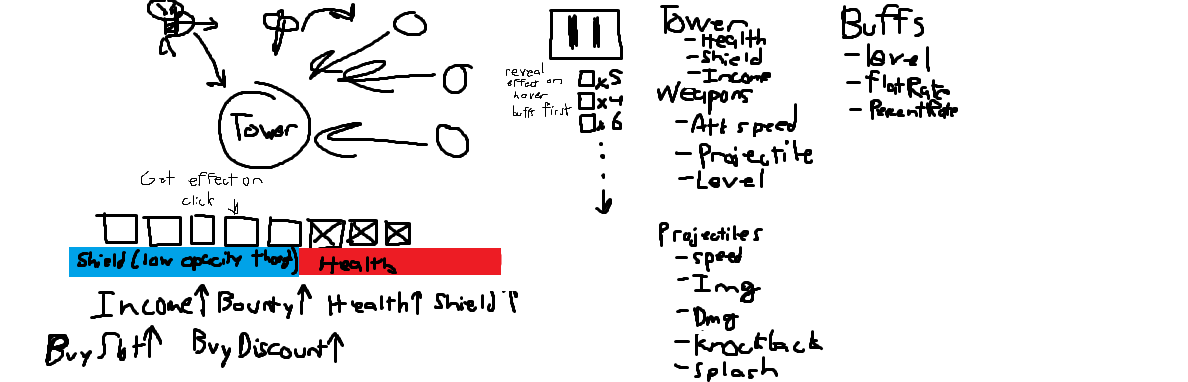
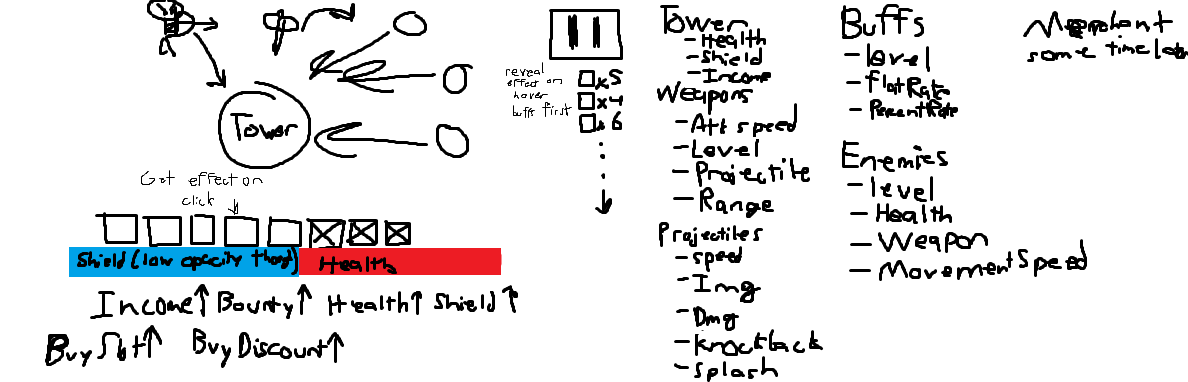
created simplified scriptable objects

Changed region(s): [[0.5606, 0.3743, 0.9343, 0.7487], [0.8409, 0.0288, 1.0, 0.1728], [0.4049, 0.7487, 0.436, 0.7775]]

diff --git a/Assets/ScriptableObjects/ScriptableObjectScripts/Projectile.cs b/Assets/ScriptableObjects/ScriptableObjectScripts/Projectile.cs
@@ -1,0 +1,13 @@
+using System.Collections;
+using System.Collections.Generic;
+using UnityEngine;
+
+[CreateAssetMenu(fileName = "Projectile", menuName = "ScriptableObjects/Projectile")]
+public class Projectile : ScriptableObject {
+    [SerializeField] public int projectileSpeed;
+    [SerializeField] public int defaultDamage;
+    [SerializeField] public int damage;
+    [SerializeField] public int knockback;
+    [SerializeField] public int knockbackSpeed;
+    [SerializeField] public int splash;
+}

diff --git a/Assets/ScriptableObjects/ScriptableObjectScripts/Tower.cs b/Assets/ScriptableObjects/ScriptableObjectScripts/Tower.cs
@@ -1,0 +1,13 @@
+using System.Collections;
+using System.Collections.Generic;
+using UnityEngine;
+
+[CreateAssetMenu(fileName = "Tower", menuName = "ScriptableObjects/Tower")]
+public class Tower : ScriptableObject {
+    [SerializeField] public int defaultHealth;
+    [SerializeField] public int health;
+    [SerializeField] public int defaultShield;
+    [SerializeField] public int shield;
+    [SerializeField] public int defaultIncome;
+    [SerializeField] public int income;
+}

diff --git a/Assets/ScriptableObjects/ScriptableObjectScripts/Weapon.cs b/Assets/ScriptableObjects/ScriptableObjectScripts/Weapon.cs
@@ -1,0 +1,11 @@
+using System.Collections;
+using System.Collections.Generic;
+using UnityEngine;
+
+[CreateAssetMenu(fileName = "Weapon", menuName = "ScriptableObjects/Weapon")]
+public class Weapon : ScriptableObject {
+    [SerializeField] public int level;
+    [SerializeField] public int atkSpeed;
+    [SerializeField] public int range;
+    [SerializeField] public Projectile projectile;
+}

diff --git a/Assets/ScriptableObjects/ScriptableObjectScripts/Enemy.cs b/Assets/ScriptableObjects/ScriptableObjectScripts/Enemy.cs
@@ -1,0 +1,11 @@
+using System.Collections;
+using System.Collections.Generic;
+using UnityEngine;
+
+[CreateAssetMenu(fileName = "Enemy", menuName = "ScriptableObjects/Enemy")]
+public class Enemy : ScriptableObject {
+    [SerializeField] public int level;
+    [SerializeField] public int health;
+    [SerializeField] public int movementSpeed;
+    [SerializeField] public Weapon weapon;
+}

diff --git a/Assets/ScriptableObjects/ScriptableObjectScripts/Buff.cs b/Assets/ScriptableObjects/ScriptableObjectScripts/Buff.cs
@@ -1,0 +1,10 @@
+using System.Collections;
+using System.Collections.Generic;
+using UnityEngine;
+
+[CreateAssetMenu(fileName = "Buff", menuName = "ScriptableObjects/Buff")]
+public class Buff : ScriptableObject {
+    [SerializeField] public int level;
+    [SerializeField] public int flatRate;
+    [SerializeField] public int percentRate;
+}
